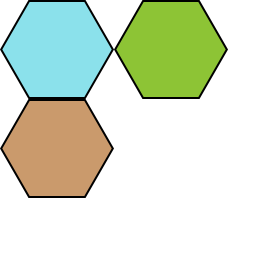
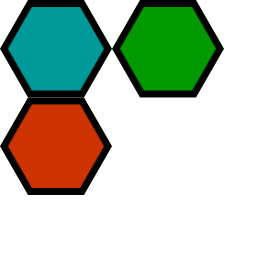
Selection des cases fonctionnelle

diff --git a/core/src/fr/lesprogbretons/seawar/screen/SeaWarCarteScreen.java b/core/src/fr/lesprogbretons/seawar/screen/SeaWarCarteScreen.java
@@ -1,6 +1,7 @@
 package fr.lesprogbretons.seawar.screen;
 
 import com.badlogic.gdx.Gdx;
+import com.badlogic.gdx.InputMultiplexer;
 import com.badlogic.gdx.ScreenAdapter;
 import com.badlogic.gdx.graphics.OrthographicCamera;
 import com.badlogic.gdx.graphics.Texture;
@@ -28,16 +29,19 @@ import static fr.lesprogbretons.seawar.SeaWar.logger;
  */
 public class SeaWarCarteScreen extends ScreenAdapter {
 
-    TiledMap map;
+    private TiledMap map;
+    private TiledMapTileLayer layer;
+    private TiledMapTile[] tiles;
+    private TiledMapTile[] tilesSelected;
 
-    //TODO Faire autrement
-    TiledMapTileLayer layer;
-    TiledMapTile[] tiles;
+    private OrthographicCamera camera;
+    private OrthoCamController cameraController;
+    private HexagonalTiledMapRenderer renderer;
+    private Texture hexture;
+    private Texture hextureSel;
 
-    OrthographicCamera camera;
-    OrthoCamController cameraController;
-    HexagonalTiledMapRenderer renderer;
-    Texture hexture;
+
+    private TiledCoordinates selectedTile = new TiledCoordinates(0, 0);
 
     @Override
     public void show() {
@@ -53,25 +57,33 @@ public class SeaWarCarteScreen extends ScreenAdapter {
         camera.update();
 
         cameraController = new OrthoCamController(camera);
-        Gdx.input.setInputProcessor(cameraController);
 
         hexture = (Texture) SeaWar.assets.get(Assets.hexes);
-        TextureRegion[][] hexes = TextureRegion.split(hexture, 115, 100);
+        hextureSel = (Texture) SeaWar.assets.get(Assets.hexes2);
+
+        TextureRegion[][] hexes = TextureRegion.split(hexture, 112, 97);
+        TextureRegion[][] hexes2 = TextureRegion.split(hextureSel, 112, 97);
 
         map = new TiledMap();
         MapLayers layers = map.getLayers();
 
-        tiles = new TiledMapTile[4];
+
+        tiles = new TiledMapTile[3];
         tiles[0] = new StaticTiledMapTile(new TextureRegion(hexes[0][0]));
         tiles[1] = new StaticTiledMapTile(new TextureRegion(hexes[0][1]));
         tiles[2] = new StaticTiledMapTile(new TextureRegion(hexes[1][0]));
-        tiles[3] = new StaticTiledMapTile(new TextureRegion(hexes[1][1]));
+
+        tilesSelected = new TiledMapTile[3];
+        tilesSelected[0] = new StaticTiledMapTile(new TextureRegion(hexes2[0][0]));
+        tilesSelected[1] = new StaticTiledMapTile(new TextureRegion(hexes2[0][1]));
+        tilesSelected[2] = new StaticTiledMapTile(new TextureRegion(hexes2[1][0]));
+
 
         for (int l = 0; l < 1; l++) {
             layer = new TiledMapTileLayer(13, 11, 112, 97);
             for (int y = 0; y < 11; y++) {
                 for (int x = 0; x < 13; x++) {
-                    int id = (int) (Math.random() * 2) + 1;
+                    int id = (int) (Math.random() * 3);
                     Cell cell = new Cell();
                     cell.setTile(tiles[id]);
                     layer.setCell(x, y, cell);
@@ -81,6 +93,11 @@ public class SeaWarCarteScreen extends ScreenAdapter {
         }
 
         renderer = new HexagonalTiledMapRenderer(map);
+
+        //For moving cam and getting cells
+        InputMultiplexer multiplexer = new InputMultiplexer();
+        multiplexer.addProcessor(cameraController);
+        Gdx.input.setInputProcessor(multiplexer);
 
         logger.debug(camera.position.x + ";" + camera.position.y);
     }
@@ -101,26 +118,86 @@ public class SeaWarCarteScreen extends ScreenAdapter {
         renderer.render();
 
         if (cameraController.click) {
-            //Format colone/ligne
-            int x = (int) (cameraController.touchX / layer.getTileWidth());
-            int y = (int) (cameraController.touchY / layer.getTileHeight());
-            logger.debug("x : " + x + " y : " + y);
-//            for (int i = 0; i < 13; i++) {
-//                for (int j = 0; j < 11; j++) {
-//                    layer.getCell(i,j).setTile(tiles[i%3]);
-//                }
-//            }
-            layer.getCell(x, y).setTile(tiles[0]);
-
+            TiledCoordinates coords = getSelectedHexagon(cameraController.touchX, cameraController.touchY);
+            if (!coords.equals(selectedTile)) {
+                invertSelection(selectedTile, tilesSelected, tiles);
+                if (coords.row >= 0 && coords.row <= 11 && coords.column >= 0 && coords.column <= 12) {
+                    invertSelection(coords, tiles, tilesSelected);
+                    selectedTile = coords;
+                }
+            }
         }
-
-
     }
 
     @Override
     public void dispose() {
         renderer.dispose();
         hexture.dispose();
+        hextureSel.dispose();
         map.dispose();
+    }
+
+    private void invertSelection(TiledCoordinates coords, TiledMapTile[] tiledSet, TiledMapTile[] tilesToSet) {
+        Cell c = layer.getCell(coords.column, coords.row);
+        if (c.getTile() == tiledSet[0]) c.setTile(tilesToSet[0]);
+        else if (c.getTile() == tiledSet[1]) c.setTile(tilesToSet[1]);
+        else if (c.getTile() == tiledSet[2]) c.setTile(tilesToSet[2]);
+    }
+
+    private TiledCoordinates getSelectedHexagon(float x, float y) {
+
+        float hexWidth = 112f;
+        float hexQuarterWidth = hexWidth / 4f;
+        float hexHeight = 97f;
+        float hexHalfHeight = hexHeight / 2f;
+        float hexThreeQuartersWidth = hexWidth * 0.75f;
+
+
+        float m = hexQuarterWidth / hexHalfHeight;
+        // Find the row and column of the box that the point falls in.
+        int column = (int) (x / hexThreeQuartersWidth);
+        int row;
+
+        boolean columnIsOdd = column % 2 == 0;
+
+        // Is the column an odd number?
+        if (columnIsOdd)// yes: Offset x to match the indent of the row
+            row = (int) ((y - hexHalfHeight) / hexHeight);
+        else// No: Calculate normally
+            row = (int) (y / hexHeight);
+        // Work out the position of the point relative to the box it is in
+        double relX = x - (column * hexThreeQuartersWidth);
+        double relY;
+
+        if (columnIsOdd)
+            relY = (y - (row * hexHeight)) - hexHalfHeight;
+        else
+            relY = y - (row * hexHeight);
+
+        // Work out if the point is above either of the hexagon's top edges
+        if (relX < (-m * relY) + hexQuarterWidth) // LEFT edge
+        {
+            column--;
+            if (!columnIsOdd)
+                row--;
+        } else if (relX < (m * relY) - hexQuarterWidth) // RIGHT edge
+        {
+            column--;
+            if (columnIsOdd)
+                row++;
+        }
+
+        logger.debug("col : " + column + " row : " + row);
+        return new TiledCoordinates(column, row);
+    }
+}
+
+class TiledCoordinates {
+    public int column;
+    public int row;
+
+    TiledCoordinates(int column, int row) {
+        this.column = column;
+        this.row = row;
     }
 }

diff --git a/core/src/fr/lesprogbretons/seawar/assets/Assets.java b/core/src/fr/lesprogbretons/seawar/assets/Assets.java
@@ -15,6 +15,9 @@ public class Assets {
             new AssetDescriptor<>("menuShip.jpg", Texture.class, param);
 
     public static final AssetDescriptor<Texture> hexes =
+            new AssetDescriptor<>("hexes.png", Texture.class, param);
+
+    public static final AssetDescriptor<Texture> hexes2 =
             new AssetDescriptor<>("hexes2.png", Texture.class, param);
 
     public static final AssetDescriptor<Skin> menuSkin =
@@ -25,6 +28,7 @@ public class Assets {
 
         assetManager.load(menu);
         assetManager.load(hexes);
+        assetManager.load(hexes2);
         assetManager.load(menuSkin);
     }
 

diff --git a/core/src/fr/lesprogbretons/seawar/utils/OrthoCamController.java b/core/src/fr/lesprogbretons/seawar/utils/OrthoCamController.java
@@ -10,6 +10,7 @@ import static fr.lesprogbretons.seawar.SeaWar.logger;
 public class OrthoCamController extends InputAdapter {
 
     private final OrthographicCamera camera;
+
     private final Vector3 curr = new Vector3();
     private final Vector3 last = new Vector3(-1, -1, -1);
     private final Vector3 delta = new Vector3();
